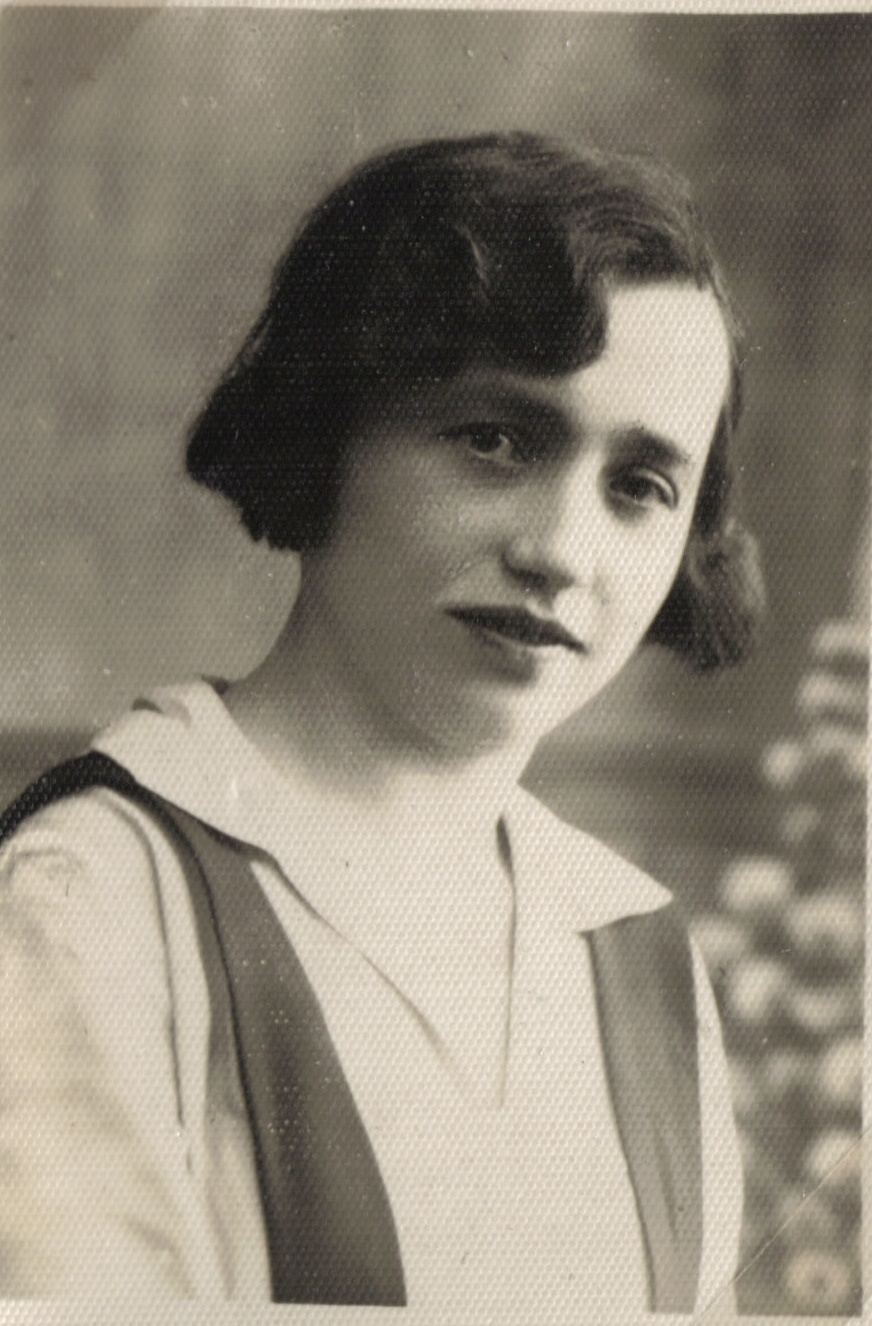
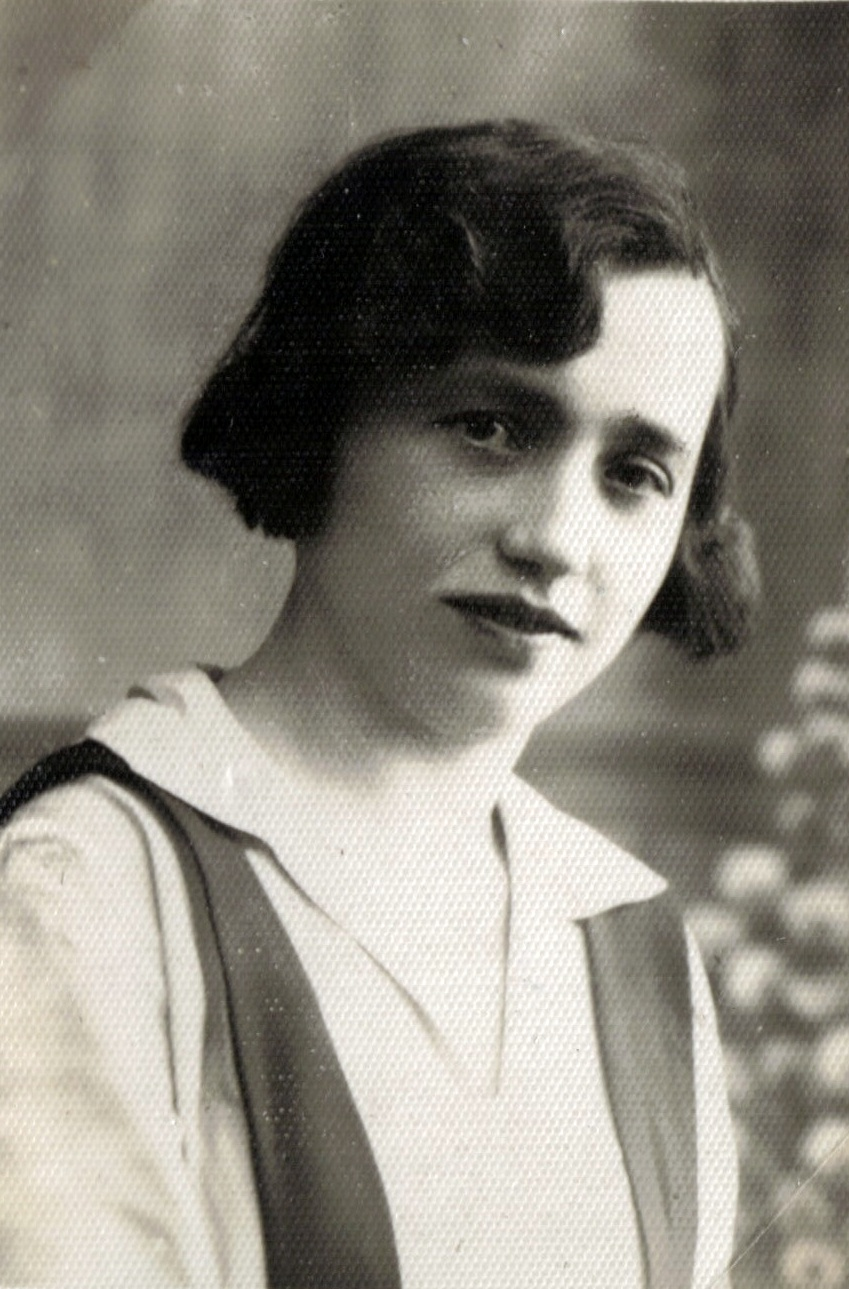
Poprawione zdjęcia strona 17

diff --git a/page-017/README.md b/page-017/README.md
@@ -7,4 +7,4 @@ Hasia, jako dorosła osoba, zamieszkała z daleka od rodzinnej Kołomyi w Dziewi
 Jedyne materiały jakie zostały po jej śmierci (zdjęcia) przywiozła po jej pogrzebie siostra Stefania, po smieci Stefani zaś jej wnuczka – Alicja – przekazała materiały Renacie, córce Edwarda Jungera, która z kolei przekazała je Marii (swojej siostrze) i stąd trafiają do tego albumu.
 
 ![image-017-01](image-017-01.jpg)
-![image-017-02](image-017-02.png)
+![image-017-02](image-017-02.jpg)
